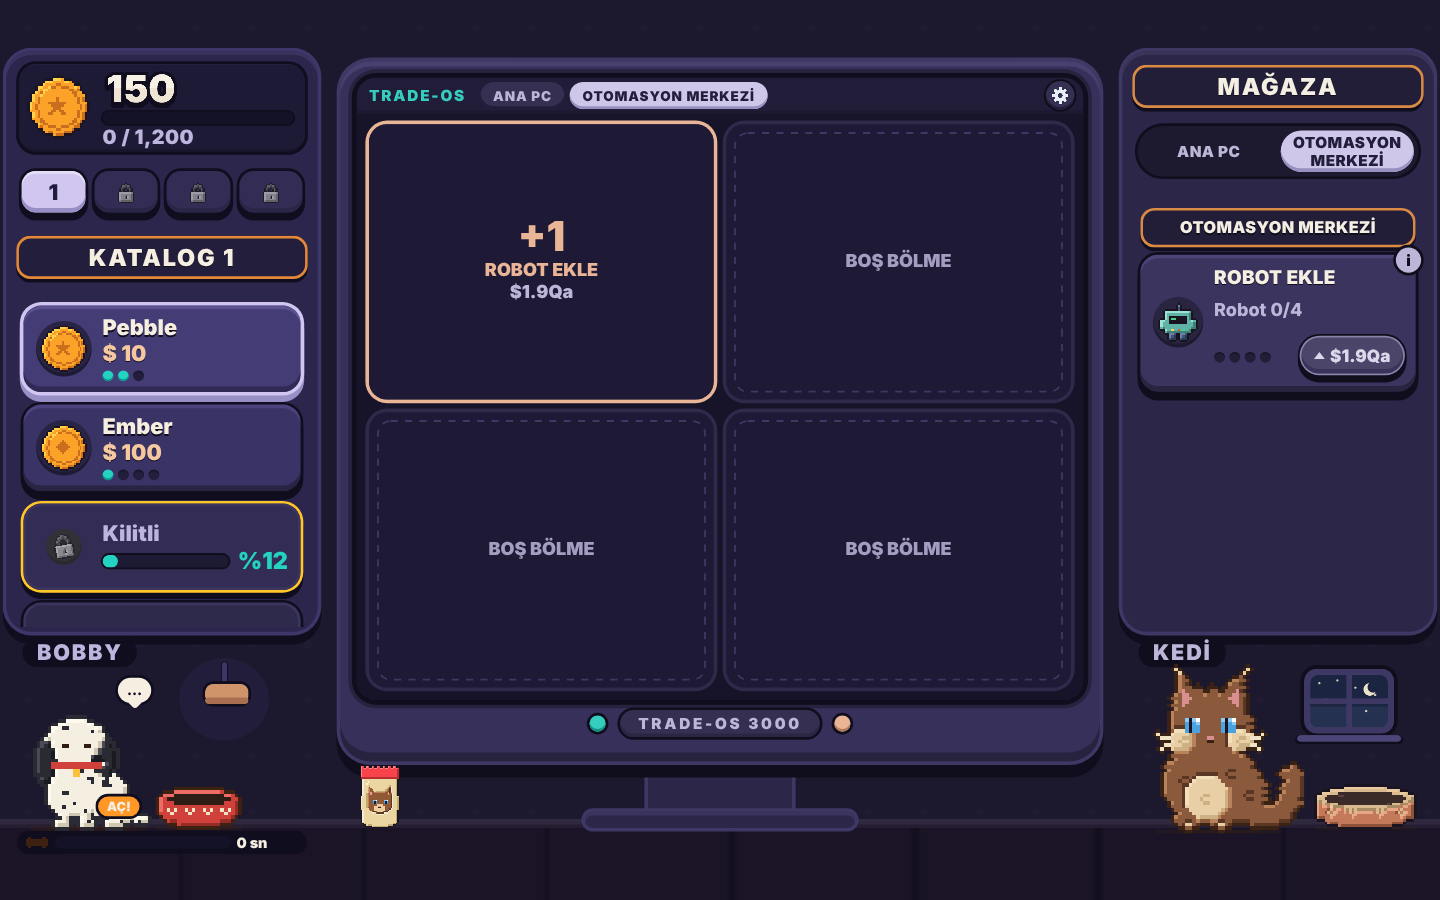
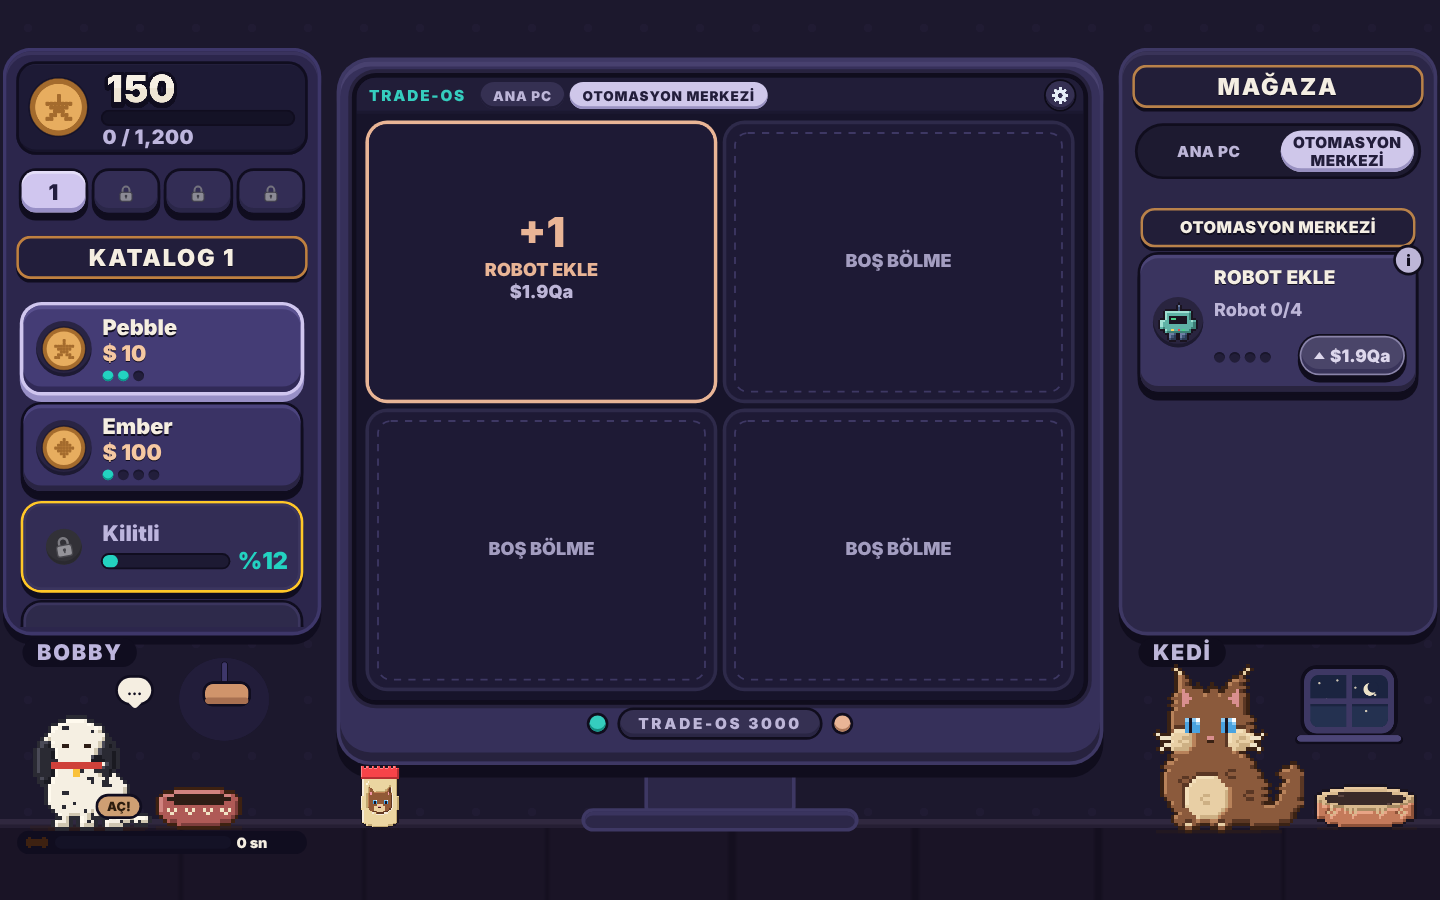
Tasarım: Adım 5 brifi (olgun oyun, gerçek para hissi, masaüstü ölçüleri, mama stamina ease-out)
Claude-Session: https://claude.ai/code/session_01VDVDeJVYoXzWZHeVKGLAfX

diff --git a/docs/tasarim/brief-adim5.md b/docs/tasarim/brief-adim5.md
@@ -1,0 +1,23 @@
+# Adım 5 Brifi — "Olgun oyun": gerçek para hırsı hissi
+
+## Kullanıcının geri bildirimi (Tur 2 Adım 1–4 sonrası)
+- "Çok güzel olmuş." Genel düzen ve koyu oda kalıyor.
+- **Ama biraz çocuk oyunu gibi.** Referans: *Scritchy Scratchy* (Lunch Money Games, 2026 Steam'de çok sevilen kazı-kazan idle oyunu; pixel art). Kullanıcının tarifi: "Oynarken oyun olduğunu hissediyorsun ama çok da oyun değil; gerçek hayatta para kazanıyormuşsun gibi bir hırs doğuran grafik."
+  (Not: Ağ kısıtı nedeniyle referansın ekran görüntülerine erişilemedi; aşağıdaki ilkeler açıklamalardan ve türün bilinen özelliklerinden çıkarıldı.)
+- **Masaüstü yazıları/kartlar fazla büyük** (mobil oyun gibi). Oyun bilgisayarda oynanacak → masaüstünde daha zarif/küçük; **telefonda büyük kalsın** (telefon kuralı ≥12 px sürer).
+- **Kediye mama verme stamina çubuğu:** dolma efekti başta hızlı, sonra yavaş (ease-out); **toplam süre aynı**. Yalnız görsel gösterim değişir, mantık/zamanlayıcı değişmez.
+
+## Yön: "Gece yarısı trader masası" — dünyanın içindeki gerçek nesneler
+1. **Diegetik nesneler:** Arayüz yüzen yuvarlak oyun butonları gibi değil, odadaki gerçek nesneler gibi dursun: monitör ahşap/koyu bir masanın üstünde (klavye/kenar ipucu), mağaza ve katalog panelleri gerçek malzeme (koyu metal/plastik kasa, kâğıt etiket, cam) hissinde. Fiyat hapları → kâğıt fiyat etiketi / fiziksel tuş hissi.
+2. **Para kahraman:** Bakiye en güçlü öğe. Para arttığında rakamlar **sayaç gibi akarak** artsın (odometre, ≤600 ms; hareket azaltmada anında). Rakamlar sabit genişlikli (tabular) — titremesin. Para ikonu gerçek madeni para/banknot hissinde.
+3. **Malzeme ve ışık:** Şeker renklerinden uzaklaş: doygunluğu düşük, gerçek malzeme tonları (koyu ceviz, mat metal, kâğıt kremi, cam yeşili ekran). Köşeler daha az yuvarlak (6–10 px), konturlar ince, kalın "cartoon" alt gölgeler yerine ince gerçekçi gölge. Glow yok.
+4. **Tipografi:** Olgun: başlıklarda kalın ama sıkı (condensed) sans; rakamlarda monospace/tabular. Masaüstünde ölçüler küçülsün (ör. kart başlığı ~16–18 px, ikincil ~13 px; sahne ölçeğine göre ayarla). Telefonda mevcut büyük ölçüler korunsun (media query / fit()).
+5. **Tur sonu fişi** gerçek termal fiş kâğıdı gibi (kâğıt dokusu düz renkle, kesik kenar, monospace).
+6. Kâr/zarar dili, tek altın vurgu, zararda alarm yok, telefon ≥12 px / ≥44 px, değişmezler (mantık/sayı/kayıt/id/data-*) aynen sürer.
+
+## Öncelik (limit az — sırayla, yarım kalırsa notla)
+1. Mama stamina ease-out (küçük, hemen).
+2. Masaüstü ölçülerini küçült, telefon büyük kalsın.
+3. Bakiye sayacı (odometre) + tabular rakamlar.
+4. Malzeme/köşe/gölge olgunlaştırma (paneller, kartlar, butonlar, monitör+masa).
+5. Fiş, fiyat etiketleri, küçük masa nesneleri (zaman kalırsa).

diff --git a/docs/tasarim/durum.md b/docs/tasarim/durum.md
@@ -21,7 +21,7 @@
 - Tur 1 bitti: 4 konsept + psikolog tartışması (docs/tasarim/tartisma/tur-1.md; psikologlar Lofi'yi seçti). **Kullanıcı Konsept 3 (Tok Mobil) ile devam dedi, arka plan daha koyu.** index.html = konsept-3 (smoke 63/63).
 - **Tur 2 yeni süreç (kullanıcı):** tek tasarımcı (Opus high) kök index.html üzerinde adım adım; her adım sonunda danışır; 2 psikolog (A, B) o adımı tartışır, B ortak tavsiye yazar; tasarımcı uygular. Canlı kayıt: docs/tasarim/canli/tur-2.md. Psikologların Tur 1 ortak kararındaki ölçülebilir kurallar (telefon ≥12 px, dokunma ≥44 px, kontrast 4.5:1, zararda alarm yok, ▲/▼, tek altın vurgu, animasyon ≤600 ms + hareket azaltma) geçerli.
 - Nabız: send_later 90 dk (bekleyen: trig_01PBqfhmEKX9u723Xk65Ddwu).
-- Tur 2 ajanları (SendMessage ile devam ettir): Tasarımcı a22b9c9486af1dbe6, Psikolog A a432f9ac8d661aba8, Psikolog B ad9f8ed00eca1c624. Şu an: Adım 1 (koyu arka plan) tasarımcıda.
+- Tur 2 ajanları (SendMessage ile devam ettir): Tasarımcı a22b9c9486af1dbe6, Psikolog A a432f9ac8d661aba8, Psikolog B ad9f8ed00eca1c624. Adım 1–3 bitti (commit), Adım 4 (telefon okunurluğu) toparlanıyor. **Kullanıcı (sabah): çok beğendi; ama çocuksu → Scritchy Scratchy gibi 'gerçek para hırsı' hissi; masaüstünde yazılar küçülsün, telefonda büyük kalsın; mama stamina ease-out.** Sonraki: Adım 5 = docs/tasarim/brief-adim5.md. Limit çok az: Adım 5'te psikolog tartışması duraklatıldı (yalnız sonunda tek kısa değerlendirme, limit kalırsa).
 
 ## Limit tasarrufu (kullanıcı: "haftalık limit çok bitmeyecek şekilde ayarla")
 - Tur 1 (4 konsept, Opus high) bitince sonraki turlarda: 4 tasarımcı ama her biri DAR bir alanda (tam yeniden tasarım değil), Opus **medium**; psikologlar Sonnet **medium**, tartışma en fazla 4 mesaj; testleri Yönetici script ile çalıştırır (ayrı testçi ajanı yok).
@@ -29,6 +29,7 @@
 - Limit hatası alan ajan yeniden başlatılmaz; limit yenilenince SendMessage ile devam ettirilir.
 
 ## Günlük (en yeni üstte)
+- Sabah: kullanıcı yeni tasarımı sitede gördü, beğendi; Adım 5 brifi yazıldı (olgunlaştırma).
 - 05:40 Kullanıcı: Konsept 3 + koyu arka plan; tek tasarımcı + eş zamanlı psikolog tartışması. index.html konsept-3'e geçti.
 - 04:58 Limit yenilendi; konsept 1/2/4 devam ettirildi; tasarruf kuralları eklendi.
 - 01:30 Kullanıcı itirazı → yeni süreç (4 tasarımcı + 2 psikolog tartışması). A1 geri alındı.
